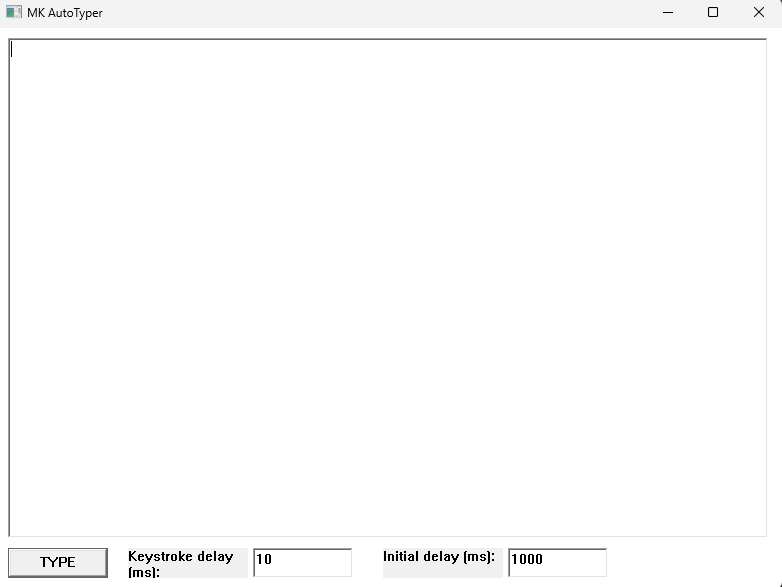
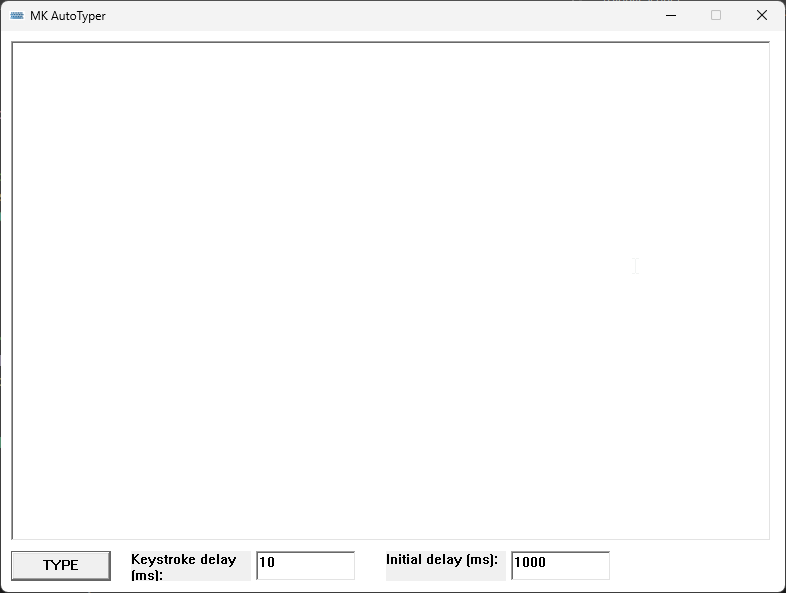
Added parameters /tray and /minimized to start this application in  the background

diff --git a/AutoTyper/AutoTyper.cpp b/AutoTyper/AutoTyper.cpp
@@ -1,7 +1,13 @@
 #include <Windows.h>
 #include <string>
 #include <iostream> 
+#include "resource.h"
 
+
+HWND currentWindow;
+NOTIFYICONDATA g_nid;
+HINSTANCE gHInstance;
+#define UNIQUE_MK_AUTOTYPER L"MK-AutoTyper"
 
 void PressKey(BYTE keyCode, bool keyCtrl = false, bool keyAlt = false, bool keyShift = false) {
     if (keyShift) keybd_event(VK_LSHIFT, 0, 0, 0);
@@ -106,12 +112,43 @@ int getIKeyStrokeDelay() {
     return iKeyStrokeDelay;
 }
 
+// Function to create systray icon
+void CreateSystemTrayIcon(HWND hWnd) {
+    g_nid.cbSize = sizeof(NOTIFYICONDATA);
+    g_nid.hWnd = hWnd;
+    g_nid.uID = 1;
+    g_nid.uFlags = NIF_ICON | NIF_MESSAGE | NIF_TIP;
+    g_nid.uCallbackMessage = WM_USER + 1;
+    g_nid.hIcon = LoadIcon(gHInstance, MAKEINTRESOURCE(IDI_SMALL));
+    lstrcpy(g_nid.szTip, TEXT("MK AutoTyper"));
+
+    Shell_NotifyIcon(NIM_ADD, &g_nid);
+}
+
+// Function to handle right-click context menu
+void ShowContextMenu(HWND hWnd) {
+    POINT pt;
+    GetCursorPos(&pt);
+
+    HMENU hMenu = CreatePopupMenu();
+    InsertMenu(hMenu, -1, MF_BYPOSITION | MF_STRING, 1, TEXT("Exit"));
+
+    SetForegroundWindow(hWnd); // Set the window as foreground
+    TrackPopupMenu(hMenu, TPM_LEFTALIGN | TPM_RIGHTBUTTON, pt.x, pt.y, 0, hWnd, NULL);
+    DestroyMenu(hMenu);
+}
+
+// Function to remove systray icon
+void RemoveSystemTrayIcon() {
+    Shell_NotifyIcon(NIM_DELETE, &g_nid);
+}
+
 LRESULT CALLBACK WindowProc(HWND hwnd, UINT uMsg, WPARAM wParam, LPARAM lParam) {
     switch (uMsg) {
     case WM_CREATE: {
         textboxTypeContent = CreateWindowEx(WS_EX_CLIENTEDGE, L"EDIT", L"", WS_CHILD | WS_VISIBLE | ES_MULTILINE | ES_AUTOVSCROLL | ES_AUTOHSCROLL, 10, 10, 760, 500, hwnd, NULL, GetModuleHandle(NULL), NULL);
         CreateWindow(L"BUTTON", L"TYPE", WS_TABSTOP | WS_VISIBLE | WS_CHILD | BS_DEFPUSHBUTTON, 10, 520, 100, 30, hwnd, (HMENU)1, GetModuleHandle(NULL), NULL);
-        HWND labelKeyStrokeDelay = CreateWindowEx(0, L"STATIC", L"Keystroke delay (ms):", WS_CHILD | WS_VISIBLE,130, 520, 120, 30,hwnd,NULL,GetModuleHandle(NULL),NULL);
+        HWND labelKeyStrokeDelay = CreateWindowEx(0, L"STATIC", L"Keystroke delay (ms):", WS_CHILD | WS_VISIBLE, 130, 520, 120, 30, hwnd, NULL, GetModuleHandle(NULL), NULL);
         txtKeyStrokeDelay = CreateWindowEx(WS_EX_CLIENTEDGE, L"EDIT", L"10", WS_CHILD | ES_NUMBER | WS_VISIBLE | ES_AUTOVSCROLL | ES_AUTOHSCROLL, 255, 520, 100, 30, hwnd, NULL, GetModuleHandle(NULL), NULL);
         HWND labelInitialDelay = CreateWindowEx(0, L"STATIC", L"Initial delay (ms):", WS_CHILD | WS_VISIBLE, 385, 520, 120, 30, hwnd, NULL, GetModuleHandle(NULL), NULL);
         txtInitialDelay = CreateWindowEx(WS_EX_CLIENTEDGE, L"EDIT", L"1000", WS_CHILD | ES_NUMBER | WS_VISIBLE | ES_AUTOVSCROLL | ES_AUTOHSCROLL, 510, 520, 100, 30, hwnd, NULL, GetModuleHandle(NULL), NULL);
@@ -120,9 +157,29 @@ LRESULT CALLBACK WindowProc(HWND hwnd, UINT uMsg, WPARAM wParam, LPARAM lParam) 
     }
     case WM_COMMAND: {
         switch (LOWORD(wParam)) {
-        case 1: { // ID of the button
-            simulateKeystrokes(getTxtBoxString(textboxTypeContent), getIKeyStrokeDelay(), getiInitialDelay());
-            break;
+            case 1: { // ID of the button
+                if (HIWORD(wParam) == 0) {
+                    RemoveSystemTrayIcon();
+                    PostQuitMessage(0);
+                }
+                simulateKeystrokes(getTxtBoxString(textboxTypeContent), getIKeyStrokeDelay(), getiInitialDelay());
+                break;
+            }
+        }
+        break;
+    }
+    case WM_CLOSE: {
+        ShowWindow(currentWindow, SW_HIDE);
+    }
+    case WM_USER+1: { // Systray icon message
+        switch (lParam) {
+            case WM_LBUTTONUP: { // Left click on systray icon
+                ShowWindow(currentWindow, SW_SHOW);
+                ShowWindow(currentWindow, SW_NORMAL);
+                break;
+            }
+            case WM_RBUTTONDOWN: {
+                ShowContextMenu(currentWindow);
             }
         }
         break;
@@ -178,24 +235,49 @@ void setHook() {
 // Entry point of the application
 int WINAPI WinMain(HINSTANCE hInstance, HINSTANCE hPrevInstance, LPSTR lpCmdLine, int nCmdShow) {
     setHook(); // Set the keyboard hook
-    // Register the window class
-    const wchar_t CLASS_NAME[] = L"MK-AutoTyper";
+
+    // Attempt to create a named mutex
+    HANDLE hMutex = CreateMutex(NULL, TRUE, UNIQUE_MK_AUTOTYPER);
+    // Check if the mutex already exists
+    if (GetLastError() == ERROR_ALREADY_EXISTS)
+    {
+        HWND hOtherWnd = FindWindow(UNIQUE_MK_AUTOTYPER, NULL);
+
+        ShowWindow(hOtherWnd, SW_SHOW);
+        return 0;
+    }
 
     WNDCLASS wc = {};
     wc.lpfnWndProc = WindowProc;
     wc.hInstance = hInstance;
-    wc.lpszClassName = CLASS_NAME;
+    wc.hbrBackground = CreateSolidBrush(RGB(255, 255, 255));
+    gHInstance = hInstance;
+
+    wc.lpszClassName = UNIQUE_MK_AUTOTYPER;
 
     RegisterClass(&wc);
 
     // Create the window
-    HWND hwnd = CreateWindowEx(0, CLASS_NAME, L"MK AutoTyper", WS_MINIMIZEBOX | WS_CAPTION | WS_SYSMENU, CW_USEDEFAULT, CW_USEDEFAULT, 800, 600, NULL, NULL, hInstance, NULL);
-    ShowWindow(hwnd, SW_HIDE);
-    if (hwnd == NULL) {
+    currentWindow = CreateWindowEx(0, UNIQUE_MK_AUTOTYPER, L"MK AutoTyper", WS_MINIMIZEBOX | WS_CAPTION | WS_SYSMENU, CW_USEDEFAULT, CW_USEDEFAULT, 800, 600, NULL, NULL, hInstance, NULL);
+    if (currentWindow == NULL) {
         return 0;
     }
+    HICON hIcon = LoadIcon(hInstance, MAKEINTRESOURCE(IDI_AUTOTYPER));
+    HICON hIconSmall = LoadIcon(hInstance, MAKEINTRESOURCE(IDI_SMALL));
+    SendMessage(currentWindow, WM_SETICON, ICON_BIG, (LPARAM)hIcon);
+    SendMessage(currentWindow, WM_SETICON, ICON_SMALL, (LPARAM)hIconSmall);
+   
 
-    ShowWindow(hwnd, nCmdShow);
+    std::string cmdLine(lpCmdLine);
+
+
+    if (!(cmdLine.find("/tray") != std::string::npos)) {
+        ShowWindow(currentWindow, SW_SHOW);
+    }
+    if ((cmdLine.find("/minimized") != std::string::npos)) {
+        ShowWindow(currentWindow, SW_SHOWMINIMIZED);
+    }
+    CreateSystemTrayIcon(currentWindow);
 
     // Run the message loop
     MSG msg = {};

diff --git a/AutoTyper/Resource.h b/AutoTyper/Resource.h
@@ -1,30 +1,28 @@
 //{{NO_DEPENDENCIES}}
 // Microsoft Visual C++ generated include file.
 // Used by AutoTyper.rc
-
-#define IDS_APP_TITLE			103
-
-#define IDR_MAINFRAME			128
-#define IDD_AUTOTYPER_DIALOG	102
-#define IDD_ABOUTBOX			103
-#define IDM_ABOUT				104
-#define IDM_EXIT				105
-#define IDI_AUTOTYPER			107
-#define IDI_SMALL				108
-#define IDC_AUTOTYPER			109
-#define IDC_MYICON				2
-#ifndef IDC_STATIC
-#define IDC_STATIC				-1
-#endif
-// Next default values for new objects
 //
+#define IDC_MYICON                      2
+#define IDD_AUTOTYPER_DIALOG            102
+#define IDS_APP_TITLE                   103
+#define IDD_ABOUTBOX                    103
+#define IDM_ABOUT                       104
+#define IDM_EXIT                        105
+#define IDI_AUTOTYPER                   107
+#define IDI_SMALL                       108
+#define IDC_AUTOTYPER                   109
+#define IDR_MAINFRAME                   128
+#define IDI_ICON3                       132
+#define IDC_STATIC                      -1
+
+// Next default values for new objects
+// 
 #ifdef APSTUDIO_INVOKED
 #ifndef APSTUDIO_READONLY_SYMBOLS
-
-#define _APS_NO_MFC					130
-#define _APS_NEXT_RESOURCE_VALUE	129
-#define _APS_NEXT_COMMAND_VALUE		32771
-#define _APS_NEXT_CONTROL_VALUE		1000
-#define _APS_NEXT_SYMED_VALUE		110
+#define _APS_NO_MFC                     1
+#define _APS_NEXT_RESOURCE_VALUE        136
+#define _APS_NEXT_COMMAND_VALUE         32771
+#define _APS_NEXT_CONTROL_VALUE         1000
+#define _APS_NEXT_SYMED_VALUE           110
 #endif
 #endif
